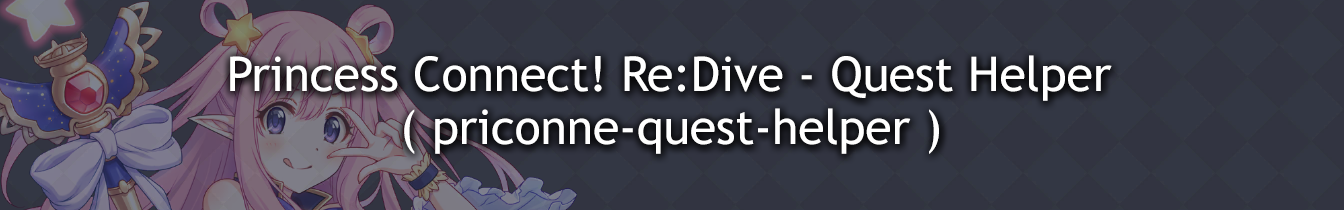
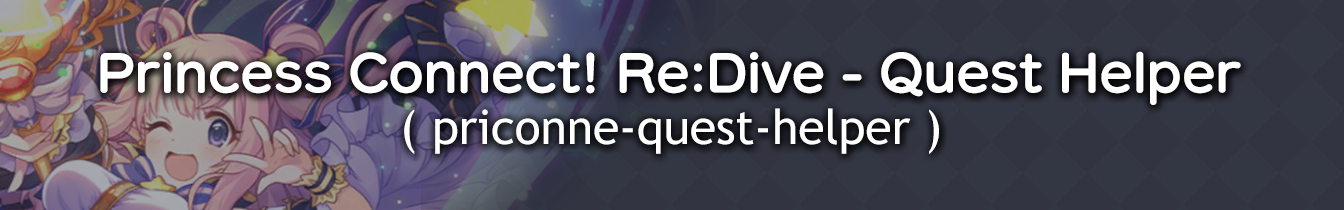
Update README.md
- Change README banner
- Remove some old info in README.ko.md
- Add ko-fi sell out stuff

diff --git a/README.ko.md b/README.ko.md
@@ -1,4 +1,4 @@
-![README Banner](https://raw.githubusercontent.com/Expugn/priconne-quest-helper/master/images/webpage/README_Banner_ko.png)
+![README Banner](https://raw.githubusercontent.com/Expugn/priconne-quest-helper/master/images/webpage/README_Banner.png)
 
 [🌎 English](README.md)
 
@@ -13,6 +13,10 @@ URL: <https://expugn.github.io/priconne-quest-helper/><br>
 변경 사항: [/priconne-quest-helper/CHANGELOG.md](CHANGELOG.md)
 
 마지막 퀘스트 데이터의 업데이트 일자는 [영어 README의 Last Quest Update](README.md)를 확인해주세요.
+
+<br>
+
+[![ko-fi](https://www.ko-fi.com/img/githubbutton_sm.svg)](https://ko-fi.com/E1E21KEV4)
 
 ## 정보
 캐릭터의 랭크 업 등에 필요한 아이템을 얻기 위해 돌아야 되는 최적의 퀘스트를 찾아주는 도우미 프로젝트입니다.
@@ -39,21 +43,6 @@ URL: <https://expugn.github.io/priconne-quest-helper/><br>
 <br>비활성화한 아이템은 `추천 퀘스트 목록` 산정에 고려되지 않습니다.
 6. 퀘스트 목록(기본값으로 최대 10개)이 `추천 퀘스트 목록` 카테고리에 표시됩니다.
 <br>남은 스태미나를 고려하여 최선의 퀘스트를 도세요!
-
-## 퀘스트 점수란?
-퀘스트 점수는 `추천 퀘스트 목록`에서 퀘스트를 정렬할 때 기준이 되는 수치입니다.
-
-| 사유 | 부여되는 퀘스트 점수 |
-| :---: | :---: |
-| `재료가 첫 번째 혹은 두 번째 슬롯에 있음`<br><br>첫 번째 혹은 두 번째 슬롯에 있는 재료는 세 번째 슬롯에 있는 재료에 비해 드롭률이 보통 더 높습니다. | `1.0` |
-| `재료가 세 번째 슬롯에 있음`<br><br>세 번째 슬롯에 있는 재료는 첫 번째 혹은 두 번째 슬롯에 있는 재료에 비해 드롭률이 보통 더 낮습니다. | `0.75` |
-| `재료가 메모리 피스임`<br><br>어려움 퀘스트의 메모리 피스는 높은 중요도를 가집니다. | `1.0` |
-| `재료가 세 번째 슬롯에 있지만 첫 번째 및 두 번째 슬롯의 재료와 드롭률을 공유함`<br><br>초기의 퀘스트(첫 세 아이템은 `54%`)나 어려움 퀘스트(첫 세 아이템은 `72%`)의 경우에 해당됩니다. | `1.0` |
-| `재료가 부수적으로 드롭되는 아이템임`<br><br>부수적으로 드롭되는 아이템은 퀘스트 창에서 표시되지 않지만, 세 슬롯의 아이템보다 낮은 확률로 드롭되는 아이템을 말합니다.<br>모든 퀘스트마다 5개의 부수적으로 드롭되는 아이템이 있으며 각각 `20%`의 드롭률을 가집니다. | `0.5` |
-| `재료가 부수적으로 드롭되는 아이템임 (17%)`<br><br>일반적인 부수적 드롭 아이템보다 낮은 드롭률을 가집니다. | `0.45` |
-| `재료가 부수적으로 드롭되는 아이템임 (15%)`<br><br>일반적인 부수적 드롭 아이템보다 낮은 드롭률을 가집니다. | `0.40` |
-
-`* 설정 탭에서 퀘스트 점수가 표시되도록 설정할 수 있습니다.`
 
 ## 버그, 오류, 기능 제안, 그 외
 다음 사항은 `GitHub 이슈 트래커`나 `Discord`의 `S'pugn#2612`로 알려주세요.

diff --git a/README.md b/README.md
@@ -14,6 +14,10 @@ Changelog: [/priconne-quest-helper/CHANGELOG.md](CHANGELOG.md)
 
 Last Quest Update: `February 15, 2020`
 
+<br>
+
+[![ko-fi](https://www.ko-fi.com/img/githubbutton_sm.svg)](https://ko-fi.com/E1E21KEV4)
+
 ## Information
 This is a tool to help you decide which is the best quest to farm to get
 whatever assortment of items you need to rank up your characters.
